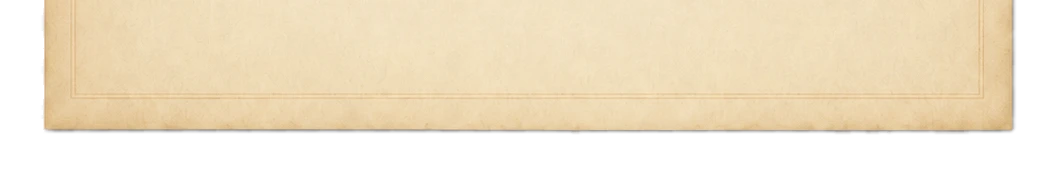
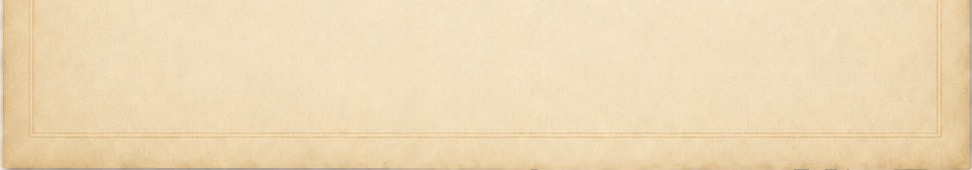
landing1012: change paper to newpage2 (sliced from opaque region, lossless)

diff --git a/app/landing1012/landing1012.css b/app/landing1012/landing1012.css
@@ -39,9 +39,9 @@
 /* Paper sheet placed inside the folder, below the nav; the articles sit on it. */
 .og-paper { position: relative; margin-top: 16px; filter: drop-shadow(0 6px 16px rgba(0, 0, 0, 0.28)); }
 .og-paper-bg { position: absolute; inset: 0; z-index: 0; display: flex; flex-direction: column; pointer-events: none; }
-.og-paper-top { width: 100%; aspect-ratio: 1055 / 170; background: url('/pp-top.webp') no-repeat; background-size: 100% 100%; }
+.og-paper-top { width: 100%; aspect-ratio: 972 / 170; background: url('/pp-top.webp') no-repeat; background-size: 100% 100%; }
 .og-paper-mid { flex: 1 1 auto; background: url('/pp-mid.webp') no-repeat; background-size: 100% 100%; }
-.og-paper-bottom { width: 100%; aspect-ratio: 1055 / 170; background: url('/pp-bottom.webp') no-repeat; background-size: 100% 100%; margin-top: -1px; }
+.og-paper-bottom { width: 100%; aspect-ratio: 972 / 170; background: url('/pp-bottom.webp') no-repeat; background-size: 100% 100%; margin-top: -1px; }
 .og-paper-in { position: relative; z-index: 1; padding: clamp(28px, 4vw, 50px) clamp(24px, 3.4vw, 42px) clamp(34px, 4.5vw, 58px); }
 
 /* Content over the folder; top padding clears the tab, sides clear the edges. */
